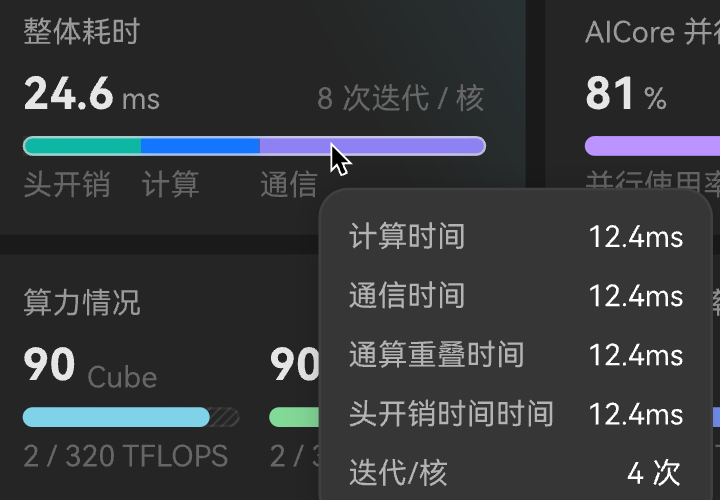
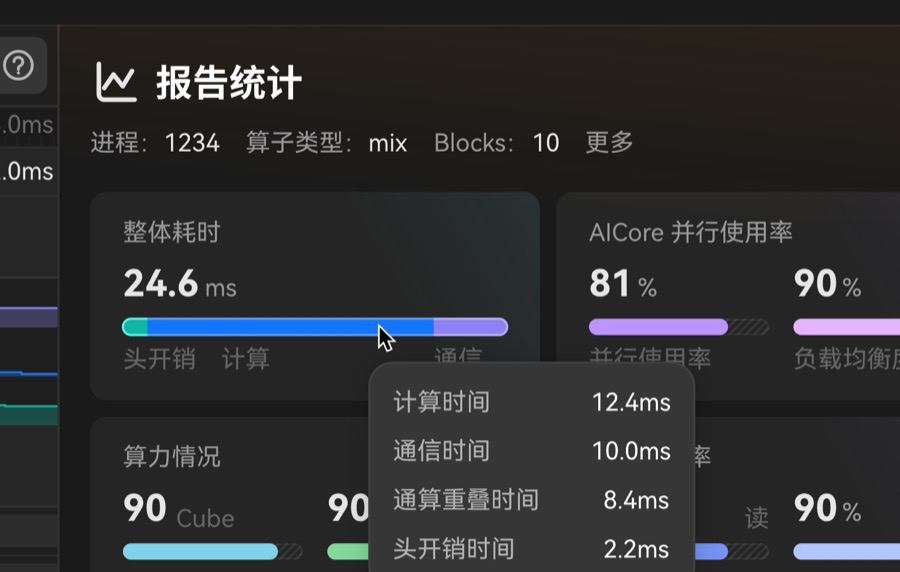
fix: align duration hover list with 2026-10-21 Product mock
Drop 迭代/核 from the breakdown tooltip and hide Blocks secondary while
the segmented bar is shown; refresh visual crops from the new sketch.

diff --git a/src/ui/StatsAside/StatsAside.vue b/src/ui/StatsAside/StatsAside.vue
@@ -606,11 +606,9 @@ function numericBlockDim(blockDim: string | number | undefined): number | undefi
 }
 
 /**
- * UI-32 secondary: `{blockDim} Blocks / {coreCount} 核` (DATA-1).
- * Fallback order: blocks/core → `blockDim` → `opName`. Each form carries the tooltip
- * that says which quantity the line reports (PR-STATS-040).
- * 2026-10-15 mock: secondary sits on the value row (right); bar returns only when
- * `durationBreakdown` is set (3-segment 头开销/计算/通信).
+ * UI-32 secondary: `{blockDim} Blocks / {coreCount} 核` (DATA-1) on the value row
+ * only when `durationBreakdown` is absent (2026-10-21 mock drops secondary once the
+ * segmented bar is shown). Fallback order: blocks/core → `blockDim` → `opName`.
  */
 const durationSecondary = computed<{ text: string; tip: CardTip } | null>(() => {
   const s = summary.value;
@@ -646,17 +644,6 @@ const durationSegments = computed(() => {
     { id: 'compute' as const, pct: (compute / total) * 100 },
     { id: 'communication' as const, pct: (communication / total) * 100 },
   ];
-});
-
-const breakdownIterations = computed(() => {
-  const b = durationBreakdown.value;
-  if (b?.iterationsPerCore != null && b.iterationsPerCore !== '') {
-    return String(b.iterationsPerCore);
-  }
-  const s = summary.value;
-  if (s?.mixBlockDim != null && s.mixBlockDim !== '') return String(s.mixBlockDim);
-  if (s?.blockDim != null && s.blockDim !== '') return String(s.blockDim);
-  return null;
 });
 
 function formatBreakdownTime(us: number): string {
@@ -1018,7 +1005,7 @@ const detailTestId = computed(() => {
               <span class="pr-card__unit">{{ durationParts.unit }}</span>
             </div>
             <div
-              v-if="durationSecondary"
+              v-if="durationSecondary && !durationSegments"
               class="pr-card__value-meta"
               data-testid="stats-duration-secondary"
               v-bind="tipBind(durationSecondary.tip, { focusable: true })"
@@ -1647,13 +1634,6 @@ const detailTestId = computed(() => {
         <div class="pr-duration-tooltip__row">
           <span>{{ t('durationOverheadTime', locale) }}</span>
           <span>{{ formatBreakdownTime(durationBreakdown.overheadUs) }}</span>
-        </div>
-        <div
-          v-if="breakdownIterations != null"
-          class="pr-duration-tooltip__row"
-        >
-          <span>{{ t('durationIterationsLabel', locale) }}</span>
-          <span>{{ t('durationIterationsCount', locale).replace('{n}', breakdownIterations) }}</span>
         </div>
       </div>
     </Teleport>

diff --git a/src/domain/types.ts b/src/domain/types.ts
@@ -86,17 +86,15 @@ export interface SwimlaneModel {
 /**
  * 整体耗时 segmented bar + hover breakdown (`StatsSummaryPanel/visual/duration-card.png`).
  * Bar widths = overhead / compute / communication share of their sum.
- * Overlap is tooltip-only. CSV field sources for the four times are still Product-open
- * (npu-compute PDF §11.2.4 maps only `Task Duration(us)` for the card total).
+ * Overlap is tooltip-only (2026-10-21 Product mock). CSV field sources for the four times
+ * are still Product-open (npu-compute PDF §11.2.4 maps only `Task Duration(us)` for the card total).
  */
 export interface DurationBreakdown {
   overheadUs: number;
   computeUs: number;
   communicationUs: number;
-  /** 通算重叠时间 — tooltip only. */
+  /** 通算重叠时间 — tooltip only; not a bar segment. */
   overlapUs?: number;
-  /** Tooltip 迭代/核; UI falls back to `mixBlockDim` / `blockDim` when unset. */
-  iterationsPerCore?: number | string;
 }
 
 export interface SummaryMetrics {
@@ -115,14 +113,12 @@ export interface SummaryMetrics {
   pid?: string;
   /** OpBasicInfo `Block Dim` — aside meta **Blocks** and duration secondary (DATA-1, UI-32). */
   blockDim?: string | number;
-  /**
-   * OpBasicInfo `Mix Block Dim` (Vector core count on MIX; NA when non-MIX).
-   * Breakdown tooltip 迭代/核 prefers this when set.
-   */
+  /** OpBasicInfo `Mix Block Dim` (Vector core count on MIX; NA when non-MIX). */
   mixBlockDim?: string | number;
   /**
-   * Optional 头开销/计算/通信 breakdown for the duration card bar + hover list.
-   * Omit until producer fields are confirmed; card keeps no bar (UI-32 fallback).
+   * Optional 头开销/计算/通信 breakdown for the duration card bar + hover list
+   * (计算时间 / 通信时间 / 通算重叠时间 / 头开销时间). Omit until producer fields are
+   * confirmed; card keeps no bar and may show Blocks/核 secondary (UI-32 fallback).
    */
   durationBreakdown?: DurationBreakdown;
   /** DATA-1: `HardwareInfo.jsonl` core count for `Op Type` (cube/vector/mix). */

diff --git a/src/ui/StatsAside/StatsAside.spec.ts b/src/ui/StatsAside/StatsAside.spec.ts
@@ -794,13 +794,12 @@ describe('StatsAside', () => {
           summary: {
             taskDurationUs: 24600,
             blockDim: 8,
-            mixBlockDim: 4,
             coreCount: 24,
             durationBreakdown: {
-              overheadUs: 4000,
+              overheadUs: 2200,
               computeUs: 12400,
-              communicationUs: 8200,
-              overlapUs: 12400,
+              communicationUs: 10000,
+              overlapUs: 8400,
             },
           },
         }),
@@ -811,7 +810,8 @@ describe('StatsAside', () => {
     expect(bd.find('[data-testid="stats-duration-seg-compute"]').exists()).toBe(true);
     expect(bd.find('[data-testid="stats-duration-seg-communication"]').exists()).toBe(true);
     expect(bd.get('[data-testid="stats-duration-legend"]').text()).toMatch(/头开销|Overhead/);
-    expect(bd.get('[data-testid="stats-duration-secondary"]').text()).toMatch(/Blocks/);
+    // 2026-10-21 mock: no value-row secondary once the segmented bar is shown.
+    expect(bd.find('[data-testid="stats-duration-secondary"]').exists()).toBe(false);
     await bd.get('[data-testid="stats-duration-bar"]').trigger('pointerenter');
     // Teleported to `body` (aside overflow would clip an in-card box).
     const tip = document.querySelector('[data-testid="stats-duration-tooltip"]');
@@ -822,7 +822,11 @@ describe('StatsAside', () => {
     expect(tipText).toMatch(/通算重叠|overlap/i);
     expect(tipText).toMatch(/头开销时间|Overhead time/);
     expect(tipText).not.toMatch(/时间时间/);
-    expect(tipText).toMatch(/4/);
+    expect(tipText).not.toMatch(/迭代|Iterations/);
+    expect(tipText).toMatch(/12\.40/);
+    expect(tipText).toMatch(/10\.00/);
+    expect(tipText).toMatch(/8\.40/);
+    expect(tipText).toMatch(/2\.20/);
   });
 
   it('PR-STATS-009c: duration rounds to 2 dp; tooltip keeps full value', async () => {

diff --git a/src/i18n/index.ts b/src/i18n/index.ts
@@ -58,8 +58,6 @@ const messages = {
     durationCommTime: '通信时间',
     durationOverlapTime: '通算重叠时间',
     durationOverheadTime: '头开销时间',
-    durationIterationsLabel: '迭代/核',
-    durationIterationsCount: '{n} 次',
     freq: '频率',
     noTimeline: '无时间线事件',
     overviewStats: '统计分析',
@@ -264,8 +262,6 @@ const messages = {
     durationCommTime: 'Communication time',
     durationOverlapTime: 'Comm-compute overlap',
     durationOverheadTime: 'Overhead time',
-    durationIterationsLabel: 'Iterations / core',
-    durationIterationsCount: '{n}×',
     freq: 'Freq',
     noTimeline: 'No timeline events',
     overviewStats: 'Statistical analysis',

diff --git a/src/ui/StatsAside/StatsAside.spec.md b/src/ui/StatsAside/StatsAside.spec.md
@@ -47,7 +47,7 @@ DATA-33a duration + DATA-8 bandwidth + DATA-33h compute. Card group renders when
 - **Column label** (side label) sits beside the score while the two fit on one line and drops to its own line under the score when they do not. **Every** column label — AICore 并行使用率 / 负载均衡度, compute Cube / Vector, BW 读 / 写 — opens the shared card tooltip (PR-STATS-041) carrying its full text while its column actually cuts it (`scrollWidth > clientWidth`), so a fully visible label is not echoed back at the user.
 - A column narrower than the label **itself** (one word wider than the column) ellipsizes it, against that tooltip. Truncation is never silent: an ellipsis always has a tooltip.
 
-**Duration card (整体耗时).** Localized label; large primary value from formatted `taskDurationUs` with the unit as a muted sibling (sketch `4.60` + `ms`). Display always uses **2 decimal places**; the value cell opens the shared card tooltip (PR-STATS-041) whose **first line is the exact value** (`准确值` / `Exact value`) — residue-stripped through `exactNumber()` — and whose **second line describes the metric** (整体耗时 / Task Duration) (PR-STATS-009c, PR-STATS-040). **Value-row secondary** (UI-32 / DATA-1), right of the value: `{blockDim} Blocks / {coreCount} 核` when both set; else `{blockDim} Blocks`; else `opName`; omit if neither — shared tooltip names which quantity (PR-STATS-036, PR-STATS-040). **Bar (UI-32, 2026-10-15 mock):** when `summary.durationBreakdown` is present, a 3-segment composition (头开销 / 计算 / 通信) sized by those µs shares, legend under the track, and a hover list teleported to `body` (aside overflow would clip an in-card box) — 计算时间 / 通信时间 / 通算重叠时间 / 头开销时间 / 迭代/核 (sketch typo `头开销时间时间` → **头开销时间**; iterations prefer breakdown → `mixBlockDim` → `blockDim`). When breakdown is absent, **no bar**. Visual: [`duration-card.png`](./StatsSummaryPanel/visual/duration-card.png) / [`duration-card-tooltip.png`](./StatsSummaryPanel/visual/duration-card-tooltip.png).
+**Duration card (整体耗时).** Localized label; large primary value from formatted `taskDurationUs` with the unit as a muted sibling (sketch `4.60` + `ms`). Display always uses **2 decimal places**; the value cell opens the shared card tooltip (PR-STATS-041) whose **first line is the exact value** (`准确值` / `Exact value`) — residue-stripped through `exactNumber()` — and whose **second line describes the metric** (整体耗时 / Task Duration) (PR-STATS-009c, PR-STATS-040). **Bar (UI-32, 2026-10-21 mock):** when `summary.durationBreakdown` is present, a 3-segment composition (头开销 / 计算 / 通信) sized by those µs shares, legend under the track, and a hover list teleported to `body` — **计算时间 / 通信时间 / 通算重叠时间 / 头开销时间** only (no 迭代/核; sketch typo `头开销时间时间` → **头开销时间**). Value-row Blocks/核 secondary is **omitted** while the bar is shown. When breakdown is absent: **no bar**; value-row secondary (UI-32 / DATA-1) `{blockDim} Blocks / {coreCount} 核` when both set; else `{blockDim} Blocks`; else `opName`; omit if neither. Visual: [`duration-card.png`](./StatsSummaryPanel/visual/duration-card.png) / [`duration-card-tooltip.png`](./StatsSummaryPanel/visual/duration-card-tooltip.png).
 
 **AICore 并行使用率 (DATA-9 / DATA-10).** Dual columns **并行使用率** | **负载均衡度** from `summary.parallelUtilization` / `parallelBalance` (fractions → `%`). Large score **with** `%` at **2 decimal places** (fraction fields keep sub-percent precision; unlike compute/BW integer `utilScore` ratios). Bar = same clamped score % of track. Clamp display score to **[0, 100]** so label and bar stay in lockstep when balance `1−σ/μ` goes negative or util exceeds 1; the value cell's shared tooltip leads with the unrounded `fraction×100` percent, float residue stripped at **4 significant digits** (PR-STATS-042) (`准确值` / `Exact value`), then **describes the metric** (并行使用率 / 负载均衡度 with its `summary.jsonl` field) (PR-STATS-011c, PR-STATS-040). Column label beside the score while the two fit on one line, else on its own line under the score; ellipsis + shared tooltip when the column is narrower than the label itself (same chrome as BW 读\|写; PR-STATS-036). Hide a column when its field is absent; title + `N/A` when duration is present but both absent. Omit the card when BW-only (no `taskDurationUs`). Do not bind `summary.avgCoreUtil`.
 
@@ -118,7 +118,7 @@ DATA-33a duration + DATA-8 bandwidth + DATA-33h compute. Card group renders when
 32. **PR-STATS-027** — Icon click emits open-cannbot with scope.
 33. **PR-STATS-028** — Aside shell paints a non-interactive orange top wash (`96px`, design linear-gradient) behind the header; title/meta/body stay above it.
 34. **PR-STATS-029** — Stacked body scrolls vertically only (`overflow-x: hidden; overflow-y: auto`); a vertical scrollbar gutter or DPR subpixel must not open a horizontal scrollbar.
-35. **PR-STATS-031** — Duration secondary `{blockDim} Blocks / {coreCount} 核` on the value row; segmented 头开销/计算/通信 bar only when `durationBreakdown` is set; no bar when absent.
+35. **PR-STATS-031** — Duration secondary `{blockDim} Blocks / {coreCount} 核` on the value row only when breakdown absent; segmented 头开销/计算/通信 bar + four-row hover when `durationBreakdown` is set; no bar when absent.
 36. **PR-STATS-032** — Compute card Cube|Vector score bar and TFLOPS subtitle.
 36b. **PR-STATS-032b** — Lone Vector / write columns use secondary bar hue (COLOR_TOKENS semantic, not index).
 37. **PR-STATS-033** — Header actions are cannbot and **详情** (that order). The topology **全屏** control lives in the diagram's own bar ([panel spec](./MemoryTopologyPanel/MemoryTopologyPanel.spec.md) zoom/fullscreen bar), so it appears exactly when the diagram does and disappears with it; the aside opens the bar with **showFullscreen**.
@@ -315,6 +315,7 @@ Sampled from [`v930/compute-load`](../../../docs/ui/source/v930/compute-load.jpe
 - **2026-09-14** — Block switcher options are every `block_id` in the report (compute ∪ memory, fixture order) instead of `PipeUtilization`-only: the aside switcher and the memory overlay switcher share one state, so a memory-only id picked in the overlay can no longer leave the main `<select>` blank (PR-STATS-014b). The `All` topology model is read straight from `report.memoryTopology` instead of re-deriving the adapter's `summary.jsonl` rule (one definition, no drift).
 - **2026-09-14** — Topology gate wording synced with the code: `showTopology` now asks whether the model is *drawable* (a plated edge value or the L2 plate, PR-VM-018), not merely whether a label exists. The default block pick uses the same predicate, so the snapshot no longer selects a block whose labels are all plated-less and then hides the diagram (PR-STATS-019 / PR-STATS-021).
 - **2026-09-11** — **详情** lists follow the block selector: with a picked id the CSV field list replaces the `summary.jsonl` category list and shows that block's row; a picked block with no data blanks its widget (BW card / roofline hidden, compute **N/A**, PIPE rows empty) instead of repeating the **All** aggregate (PR-STATS-014c / 014d, DATA-19 / DATA-29).
+- **2026-10-21** — 整体耗时: hover list is 计算/通信/通算重叠/头开销 times only (no 迭代/核); no value-row secondary while segmented bar shown (UI-32 / 2026-10-21 Product mock).
 - **2026-10-19** — 整体耗时: value-row secondary; segmented 头开销/计算/通信 bar + hover list when `durationBreakdown` present (UI-32 update, PR-STATS-009/031).
 - **2026-09-11** — BW 读\|写 = **sum** of the aic + aiv sides (`aicore_gm_read_bw` / `aicore_gm_write_bw`), peak = SOL 1600 shared by both sides (DATA-8); one block selector scopes every widget (`All` = `summary.jsonl`, picked id = block CSV) (DATA-19 / DATA-28 / DATA-29).
 - **2026-09-10** — Summary PIPE **block** select shares the `.pr-block-pill` chrome (`tokens.css`) with the memory overlay switcher — one definition instead of two copies, so they cannot drift. The v930 frames contain no summary block control — it is a DATA-33b addition with no design source.

diff --git a/docs/views/report-summary.md b/docs/views/report-summary.md
@@ -70,7 +70,7 @@ Code: `reportModelFromPayloads` / `summaryFrom*` / `computeCard*` / `bandwidthCa
 | 1 | 进程ID | `PID` / `Pid` | `OpBasicInfo.csv` | |
 | 2 | 算子类型 | `OpType` / `Op Type` | `OpBasicInfo.csv` | e.g. `vector`, `MIX` |
 | 3 | Blocks | `Block Dim` | `OpBasicInfo.csv` | |
-| 4 | 整体耗时 | `Task Duration（us）` / `Task Duration(us)` | `OpBasicInfo.csv` | **Confirmed** (npu-compute PDF §11.2.4). Shown as ms in mockup. Segment times (头开销/计算/通信/通算重叠) — **not** in that table; optional `durationBreakdown` until Product names columns |
+| 4 | 整体耗时 | `Task Duration（us）` / `Task Duration(us)` | `OpBasicInfo.csv` | **Confirmed** (npu-compute PDF §11.2.4). Shown as ms in mockup. Segment times (头开销/计算/通信 + tooltip 通算重叠) — **not** in that table; optional `durationBreakdown` until Product names columns |
 | 5 | 算力情况 | measured / peak TFLOPS | `ArithmeticUtilization.csv` + `HardwareInfo.jsonl` | **Interim DATA-33h** (DATA-2..4, UI-33). Sketch: **Cube \| Vector** columns |
 | 6 | 带宽利用率 | measured / peak read \| write BW | `summary.jsonl` `OpInfoSummary` (+ `category: Memory` fallback) | Sketch: one card **读 \| 写**. Measured read / write = the producer's summed sides `aicore_gm_read_bw` / `aicore_gm_write_bw`; peak SOL **1600 GB/s** shared by both sides; each direction's score = measured ÷ peak ([DATA-8](../context/decisions/DATA.md)). One block selector for the aggregation ([DATA-19](../context/decisions/DATA.md) / [DATA-28](../context/decisions/DATA.md) / [DATA-29](../context/decisions/DATA.md)). Source is **not** `Report.csv`. |
 | 7 | AICore 并行使用率 | `aicore_parallel_utilization` / `aicore_parallel_balance` | `summary.jsonl` | **DATA-9 / DATA-10**. Sketch: **并行使用率** \| **负载均衡度** |
@@ -85,7 +85,7 @@ Code: `reportModelFromPayloads` / `summaryFrom*` / `computeCard*` / `bandwidthCa
 | Meta row | **进程** / **算子类型** / **Blocks** / **更多** / CANNBot. `OpBasicInfo.csv` → `Pid` (also `PID`) / `Op Type` / `Block Dim`. Hide a segment when unset. Meta row stays visible on the report shell so **更多** is always reachable (UI-30, UI-31). Not 核数, aic频率, or NPU ARCH. `Current Freq` / `Rated Freq` stay off this shell (hardware overlay / OpBasicInfo dump). Overlay `chip_info` / `arch_info` are Device Info names, not a header ARCH value. |
 | 更多 | **Always** on the report shell (UI-30, UI-31). Opens hardware overlay and emits `open-hardware-details`. Render `HardwareDetailsPanel` when `hardwareDetails` is present (`HardwareInfo.jsonl` preferred; OpBasicInfo fallback per DATA-34a); else show **缺少 hardware info** / Missing hardware info. |
 | Grid | Sketch **2×2**: top 整体耗时 \| AICore 并行使用率; bottom 算力情况 \| 带宽利用率 |
-| 整体耗时 card | Large duration (always **2 decimal places**; shared tooltip = exact value then metric hint). Value-row secondary (UI-32 / DATA-1): `{blockDim} Blocks / {coreCount} 核` when both set; else `{blockDim} Blocks`; else `opName`; else omit. When `durationBreakdown` present: 3-segment bar (头开销 / 计算 / 通信) + legend + hover list (compute / comm / overlap / overhead times + 迭代/核) — [`duration-card.png`](../../src/ui/StatsAside/StatsSummaryPanel/visual/duration-card.png). When breakdown absent: **no bar**. No standalone op-type card. |
+| 整体耗时 card | Large duration (always **2 decimal places**; shared tooltip = exact value then metric hint). When `durationBreakdown` present: 3-segment bar (头开销 / 计算 / 通信) + legend + hover list (计算时间 / 通信时间 / 通算重叠时间 / 头开销时间) — no value-row secondary, no 迭代/核 ([`duration-card-tooltip.png`](../../src/ui/StatsAside/StatsSummaryPanel/visual/duration-card-tooltip.png)). When breakdown absent: **no bar**; value-row secondary (UI-32 / DATA-1) `{blockDim} Blocks / {coreCount} 核` when both set; else `{blockDim} Blocks`; else `opName`; else omit. No standalone op-type card. |
 | 算力情况 card | **Cube \| Vector** columns (UI-33): large score (no `%`; shared tooltip leads with the precise percent, then *measured throughput ÷ theoretical peak*), bar = `round(measured/peak×100)` % clamped to **[0, 100]** so an over-peak measurement reads `100` on the card while the tooltip keeps the true percent, subtitle `measured / peak` with `TFLOPS` on the next line whose shared tooltip leads with the raw values, then describes the ratio — **DATA-33h** (DATA-2..4). Omit side without both measured + peak; **N/A** placeholder when duration present but `computeCard` absent. |
 | 带宽利用率 card | **读 \| 写** columns: large score **with** `%`, clamped to **[0, 100]** on the same rule (tooltip keeps the true percent), bar = score% of track, `measured / peak` whose shared tooltip leads with the raw values, then describes the ratio — **DATA-8** / UI-34 GB/s (sketch TB/s). Same card chrome as 整体耗时. |
 | AICore 并行使用率 card | Dual **并行使用率** \| **负载均衡度** from `summary.parallelUtilization` / `parallelBalance` (**DATA-9 / DATA-10**): 2dp `%` scores, bars = clamped score % of track ([0, 100]), shared tooltip leads with the unrounded percent, then describes the metric (PR-STATS-040). Hide a column when its field is absent; **title + `N/A`** when duration present but both absent. |

diff --git a/specs/core/view-models.spec.md b/specs/core/view-models.spec.md
@@ -104,6 +104,7 @@ DATA-37 — Product-final roofline (axes / roof lines / tabs remain open; comput
 - **2026-09-11** — Block scope is one selector for every CSV-backed widget (`All` = `summary.jsonl` non-`NA` mean, a picked id = that block's CSV row), implemented in the adapter (PIPE, memory topology) and StatsAside (BW / compute / roofline) (DATA-19 / DATA-28 / DATA-29; PR-VM-019–022). BW cards sum the aic + aiv sides (`aicore_gm_read_bw` / `aicore_gm_write_bw`) instead of meaning them (DATA-8). Memory topology adds L0C → L1 / L0C → L2/GM (DATA-24 / DATA-25). `data/build_sample_rep.py` no longer renames `MemoryUB.csv` `*_scalar` → `*_gm`, so no fixture carries the columns the producer does not emit (DATA-22 / DATA-23).
 - **2026-09-10** — Memory topology UB→L2 / L2→UB read `Memory.csv` `aiv_ub_to_gm_bw` / `aiv_gm_to_ub_bw` (DATA-22 / DATA-23); the producer does not emit the `MemoryUB.csv` `*_gm` names (PR-VM-011). The pre-decision code paired those `*_gm` columns with the **opposite** direction (`ub-l2` → `aiv_ub_read_bw_gm`, `l2-ub` → `aiv_ub_write_bw_gm`); because both read `0.0`, the product sample's two plated edges rendered `0.00 GB/s` (now `7.83` / `15.66 GB/s`). On the classic `out.rep` the `Memory.csv` values (`8.38` / `16.76 GB/s`) were already correct.
 - **2026-09-07** — L2 `peakPct` on topology nodes (DATA-20 / DATA-21, PR-VM-012b).
+- **2026-10-21** — `durationBreakdown` hover list is compute / comm / overlap / overhead times only (no iterations field); adapters still leave breakdown unset until Product names columns (UI-32).
 - **2026-10-19** — Optional `summary.mixBlockDim` (`Mix Block Dim`) and `summary.durationBreakdown` for the 整体耗时 segmented bar (UI-32); adapters leave breakdown unset until Product names columns.
 - **2026-09-04** — NPU-Compute: `summary.jsonl` is the canonical source — `OpInfoSummary` derived fields (compute/BW/parallel utilization), summary-first detail categories, `PipeTrace.json` µs timeline, spaced HardwareInfo key normalization, peak 1600 GB/s (SOL), compute score = measured/theoretical (DATA-2, DATA-3, DATA-5, DATA-9, DATA-33, UI-32).
 - **2026-09-01** — `summary.coreCount` from `HardwareInfo.jsonl` by op type for duration secondary (DATA-1, UI-32, PR-VM-014).

diff --git a/docs/context/decisions/UI.md b/docs/context/decisions/UI.md
@@ -30,11 +30,11 @@ Format and statuses: [README.md](README.md).
 
 ## UI-32 (was: HQ 32)
 
-- **Resolved:** 2026-09-04 (updated 2026-10-19; first answered 2026-09-01)
+- **Resolved:** 2026-09-04 (updated 2026-10-21; first answered 2026-09-01)
 - **Question:** The duration bar — decoration or a real percent? Of what?
-- **Decision:** Secondary text = `{blockDim} Blocks / {coreCount} 核` (core count per DATA-1); if only `blockDim`, `{blockDim} Blocks`; else `opName` — shown on the **value row** (right of the duration). **Bar:** when `summary.durationBreakdown` is present, show a **3-segment composition** (头开销 / 计算 / 通信) sized by those times’ share of their sum, with legend + hover list (计算时间 / 通信时间 / 通算重叠时间 / 头开销时间 / 迭代/核). When breakdown is absent, **no bar**. Segment CSV fields remain Product-open (PDF §11.2.4 maps only `Task Duration(us)` for the card total).
+- **Decision:** **Bar:** when `summary.durationBreakdown` is present, show a **3-segment composition** (头开销 / 计算 / 通信) sized by those times’ share of their sum, with legend + hover list (**计算时间 / 通信时间 / 通算重叠时间 / 头开销时间** only — no 迭代/核). Value row shows the duration alone (no Blocks secondary) while the bar is shown. When breakdown is absent: **no bar**; value-row secondary = `{blockDim} Blocks / {coreCount} 核` (DATA-1), else `{blockDim} Blocks`, else `opName`. Segment CSV fields remain Product-open (PDF §11.2.4 maps only `Task Duration(us)` for the card total).
 - **Specs:** [report-summary](../../views/report-summary.md), [StatsAside](../../../src/ui/StatsAside/StatsAside.spec.md), [view-models](../../../specs/core/view-models.spec.md)
-- **Source:** NPU-Compute.md (2026-09-04) for secondary; 2026-10-15 Product mock (`duration-card.png`) for segmented bar + tooltip.
+- **Source:** NPU-Compute.md (2026-09-04) for Blocks secondary fallback; 2026-10-21 Product mock (`duration-card-tooltip.png`) for segmented bar + four-row hover list.
 
 ---
 

diff --git a/docs/context/decisions/interim/DATA.md b/docs/context/decisions/interim/DATA.md
@@ -64,7 +64,7 @@ Meta-rules, MVP scope checklist, and related specs: [README.md](README.md).
 
 **Status:** `interim` — **SUPERSEDED** 2026-09-04
 **Question:** [DATA-33](../DATA.md)
-**Interim:** ~~Bar = `min(100%, Block Dim / core_count × 100%)`.~~ ~~Product (NPU-Compute / UI-32): bar removed.~~ **UI-32 (2026-10-19):** secondary `{blockDim} Blocks / {coreCount} 核` on the value row; **segmented** 头开销/计算/通信 bar when `durationBreakdown` is set; no bar when absent. Core count still DATA-1.
+**Interim:** ~~Bar = `min(100%, Block Dim / core_count × 100%)`.~~ ~~Product (NPU-Compute / UI-32): bar removed.~~ **UI-32 (2026-10-21):** **segmented** 头开销/计算/通信 bar + four-row hover (计算/通信/通算重叠/头开销 times) when `durationBreakdown` is set (no 迭代/核; no value-row secondary while bar shown); Blocks/核 secondary only when breakdown absent. Core count still DATA-1.
 **Implement / test as:** `PR-STATS-009`–`011`, `PR-STATS-031`
 **Superseded when:** Product names overhead / compute / comm / overlap CSV columns.
 
